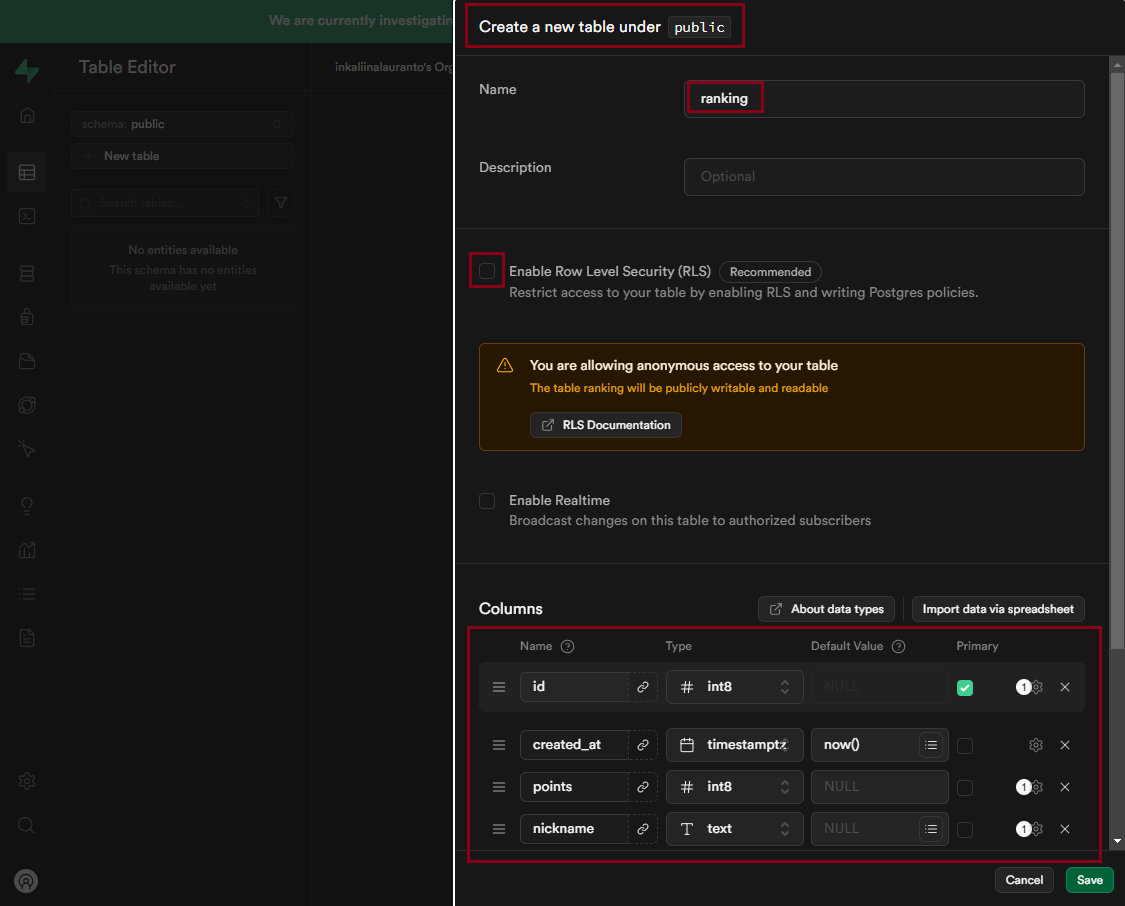
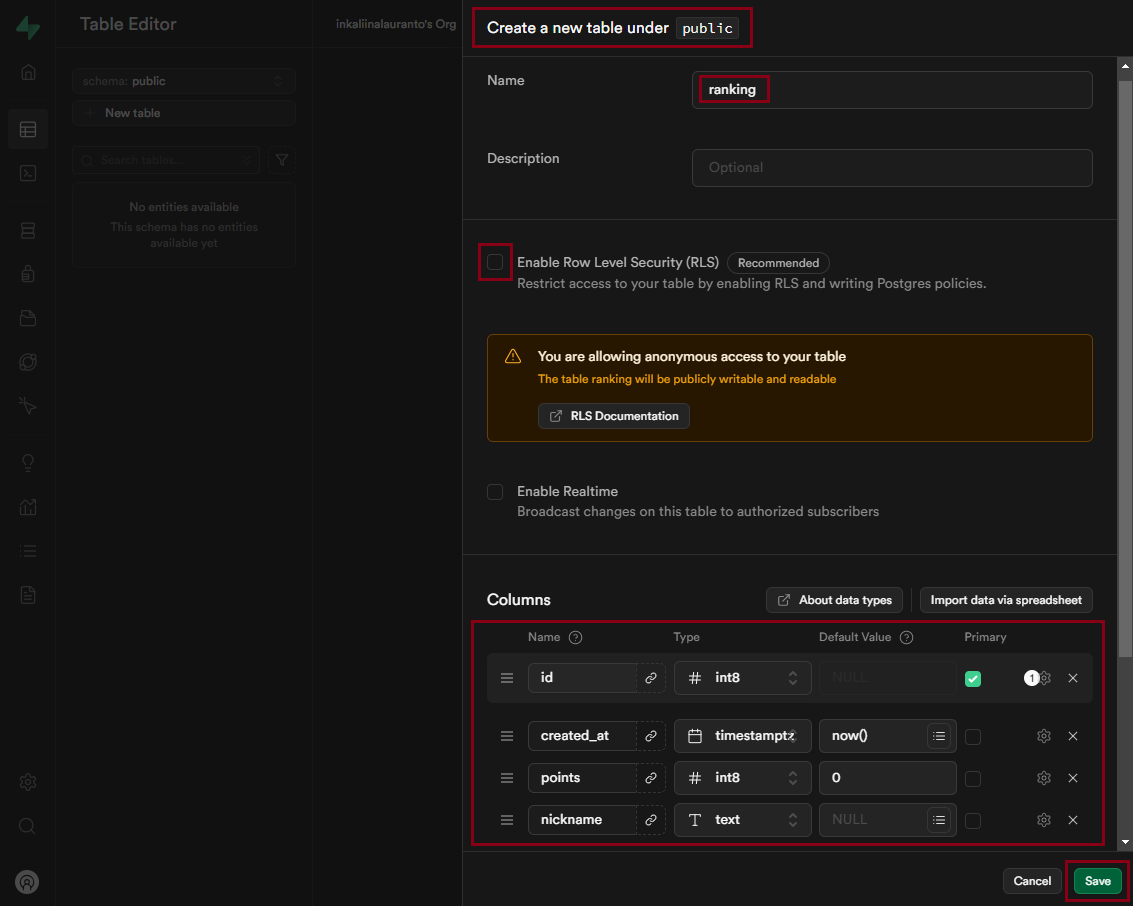
Päivitetty ohjetta tietokantataulun luonnin suhteen. Myös ohjekuva korjattu.

diff --git a/README.md b/README.md
@@ -6,8 +6,8 @@ Asenna Node.js-ympäristö ja Visual Studio Code -editorisovellus.
 Tee [Supabase-palveluun](https://supabase.com/) käyttäjä, ja luo uusi projekti. Varmista sen jälkeen, että projekti on avattuna, ja siirry sivuvalikosta Table Editor -sivulle. Paina sivun keskellä olevaa Create a new table -nappia. Syötä Name-kenttään "ranking". Täppää "Enable Row Level Security" pois päältä. Lisää sarakkeet seuraavilla arvoilla:
 - Name: id, Type: int8, Primary: täppä, Is Identity: täppä
 - Name: created_at, Type: timestamptz, Default Value: now()
-- Name: points, Type: int8
-- Name: nickname, Type: text
+- Name: points, Type: int8, Default Value: 0, Is Nullable: ei täppää
+- Name: nickname, Type: text, not null, Is Nullable: ei täppää
 
 ![Ohjekuva tarvittavista sarakkeista](ohjekuva1.png)
 
